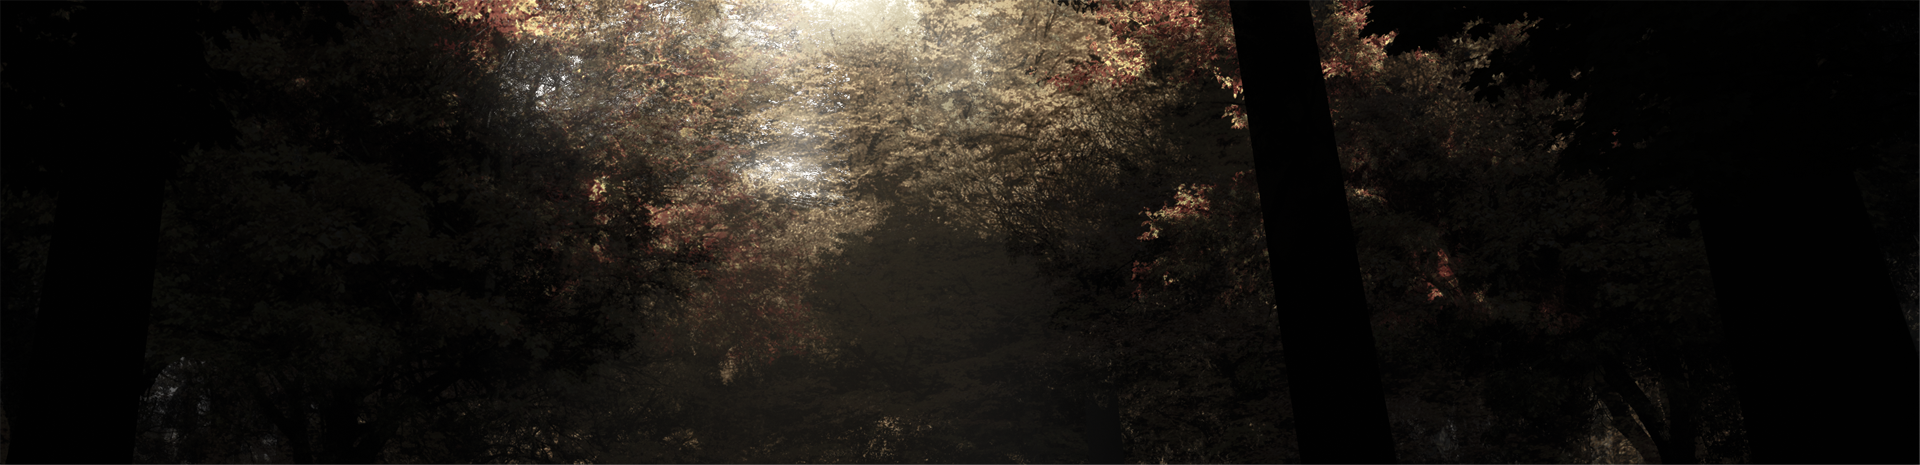
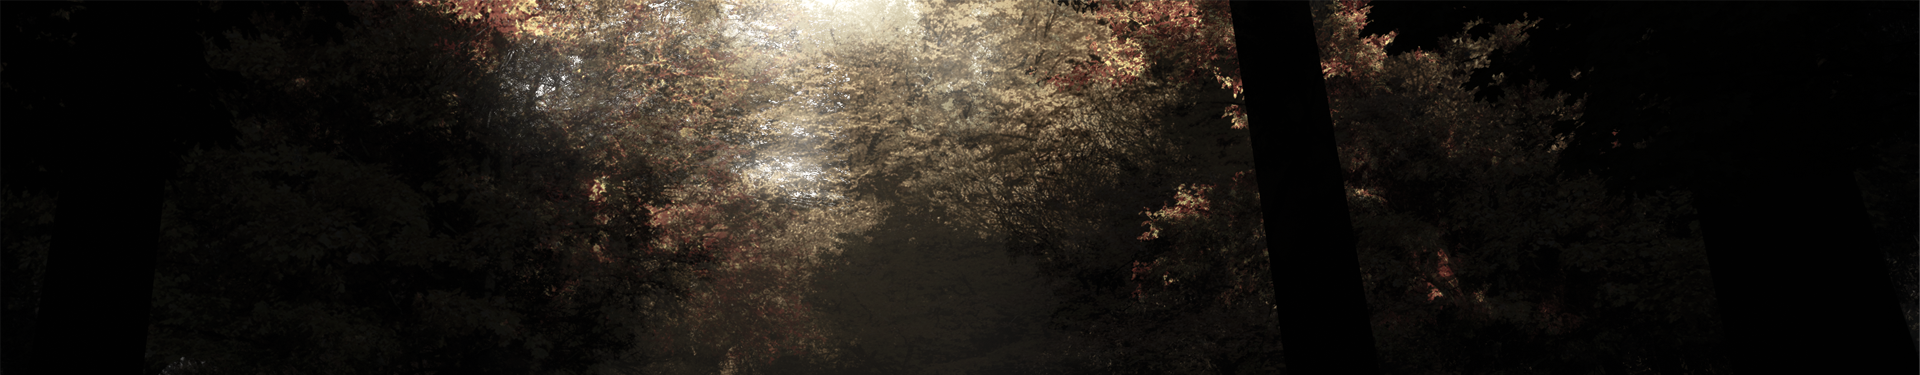
Mod : Global Bug Fixed

diff --git a/css/globalStyle.min.css b/css/globalStyle.min.css
@@ -1,1 +1,1 @@
-header{position:absolute;z-index:1;top:350px;width:100%;height:50px;line-height:50px}footer{width:100%;height:150px}.main_frame{box-sizing:border-box;width:1070px;margin:0 auto}.nav_line{width:100%;height:100%;display:flex;background-color:#afafaf;box-shadow:0px 0px 4px #6b6b6b}.nav_list{margin:0 10px;height:auto}.nav_list.left{width:120px;float:left}.nav_list.right{width:160px;float:right}.nav_item{text-align:center;color:#6b6b6b;font-size:16px;font-weight:lighter;font-family:'Trebuchet MS', 'Lucida Sans Unicode', 'Lucida Grande', 'Lucida Sans', Arial, sans-serif;box-sizing:border-box;float:left;width:100%;height:100%;padding:0 15px}.nav_item:hover{transition:all 0.4s;color:#8d8d8d;background-color:#cdcdcd}.nav_selection{display:none;float:left;width:100%;border:1px solid #bfbfbf;border-top:1px solid #cdcdcd;box-sizing:border-box;background-color:#dcdcdc;color:#6b6b6b;text-align:center;font-size:14px}.nav_selection>li{float:left;width:100%;height:45px;line-height:45px;box-sizing:border-box}.nav_selection>li:hover{transition:all 0.3s;color:#8d8d8d}.nav_selection>li:last-child{border-bottom:unset}.nav_selection>i{float:left;width:75%;height:0px;border-top:1px solid #6b6b6b;margin:0 12.5%}main>.main_frame{padding-top:50px}.topline_img{width:100%;height:350px;background-size:contain;background-position:center;background-repeat:no-repeat}.content_frame{box-sizing:border-box;width:100%;padding:20px}.content{box-sizing:border-box;margin:25px 1%;padding:20px 30px;width:98%;background-color:#e6e6e6;overflow:hidden}.content>h2{text-align:left;text-indent:0em;color:#4b4b4b;font-size:36px;font-weight:normal;font-family:Georgia, 'Times New Roman', Times, serif;margin:20px 10px 0}.content>.divider{width:98%;height:0;margin:20px 1%;margin-top:19px;border-top:1px solid #4b4b4b}.content>p{text-align:left;text-indent:1em;line-height:28px;color:#6b6b6b;font-size:16px;font-weight:normal;font-family:Georgia, 'Times New Roman', Times, serif;box-sizing:border-box;padding:5px 1%}.content a{color:#7692B4}.content a:hover{color:#A2B5CD;text-decoration:underline}.content .avator_frame{margin-top:5px;height:60px;float:right;overflow:hidden}.content .avator_frame>*{float:left}.content .avator_frame>.avator_info{text-align:center;color:#6b6b6b;font-size:16px;font-weight:lighter;font-family:'Trebuchet MS', 'Lucida Sans Unicode', 'Lucida Grande', 'Lucida Sans', Arial, sans-serif}.content .avator_frame>.avator_info>.avator_name{color:#7692B4}.content .avator_frame>.avator_info>.avator_name:hover{color:#A2B5CD;text-decoration:underline}.content .avator_frame>.avator{background-size:contain;background-position:center;background-repeat:no-repeat;box-sizing:border-box;border-radius:50%;width:60px;height:60px;border:1px solid #6b6b6b}#add_new_topic{transition:all 0.8s;position:fixed;bottom:100px;right:80px;width:60px;height:60px;border-radius:50%;background-color:#8b8b8b;font-size:42px;color:#eaeaea;line-height:60px;text-align:center;box-shadow:0px 0px 4px #6b6b6b}#add_new_topic:hover{color:#fafafa;background-color:#afafaf}.hover_frame{position:fixed;display:none;align-items:center;justify-content:center;top:0;left:0;z-index:10;width:100%;height:100%;background-color:rgba(75,75,75,0.5)}.hover_submit{width:675px;height:400px;padding:25px 40px;border-radius:10px;box-sizing:border-box;background-color:#eaeaea;font-family:Georgia, 'Times New Roman', Times, serif}.submit_title{margin-bottom:20px;width:100%;height:40px;line-height:40px;text-align:center;font-size:24px;color:#4b4b4b;font-family:'Trebuchet MS', 'Lucida Sans Unicode', 'Lucida Grande', 'Lucida Sans', Arial, sans-serif}.submit_info_frame{width:100%;height:50px;line-height:50px;font-size:18px;color:#4b4b4b;text-align:left;text-indent:1em;font-weight:300}.submit_info_frame input{box-sizing:border-box;margin:7.5px 0;margin-left:10px;width:135px;height:35px;line-height:35px;color:#6b6b6b;font-size:16px;text-indent:0.5em;border:0px solid transparent;border-bottom:2px solid #afafaf;background-color:#eaeaea}.submit_info{float:left;width:50%}.submit_content{box-sizing:border-box;width:100%;height:180px;padding:0 18px}.submit_content>h3{color:#4b4b4b;line-height:40px;font-size:18px;font-weight:400}.submit_content>textarea{width:98%;height:120px;box-sizing:border-box;margin:10px 1%;padding:5px 10px;color:#6b6b6b;font-size:16px;line-height:28px;text-indent:0.5em;border-radius:5px;border:0px solid transparent;border-top:2px solid #afafaf;border-bottom:2px solid #afafaf;background-color:#eaeaea}#submit{margin:10px 0;width:100%;height:40px;line-height:40px;text-align:center;font-size:20px;color:#6b6b6b}.input_avator{width:100%;height:138.5px;display:flex;justify-content:space-between;align-items:center}.input_avator>div{width:100px;height:100px;background-color:#afafaf}.info_frame{height:150px;padding:35px;padding-bottom:65px;box-sizing:border-box;display:flex;justify-content:space-around;align-items:center}.more_info{position:relative;z-index:1;width:180px;height:50px;box-sizing:border-box;border:1px solid #6b6b6b;background-color:transparent;transition:color 0.6s;color:#6b6b6b;font-size:20px;line-height:50px;text-align:center;font-weight:lighter;font-family:'Trebuchet MS', 'Lucida Sans Unicode', 'Lucida Grande', 'Lucida Sans', Arial, sans-serif}.more_info:hover{color:#eaeaea}.more_info::before{transition:all 0.6s;content:'';position:absolute;z-index:-1;top:-1px;left:-1px;width:0;height:50px;box-sizing:border-box;border:0px solid #6b6b6b;color:#eaeaea;font-size:20px;line-height:50px;text-align:center;font-weight:lighter;background-color:#6b6b6b}.more_info:hover::before{content:'';width:180px;border:1px solid #6b6b6b}.more_info>#text{z-index:1}.getDate{margin-top:20px;color:#6b6b6b;font-size:16px;line-height:40px;font-weight:lighter;font-family:'Trebuchet MS', 'Lucida Sans Unicode', 'Lucida Grande', 'Lucida Sans', Arial, sans-serif}
+header{position:absolute;z-index:1;top:250px;width:100%;height:50px;line-height:50px}footer{width:100%;height:150px}p{margin-block-start:0em;margin-block-end:0em}ul,ol,li{margin:0;padding:0;list-style:none}li{float:left}.main_frame{box-sizing:border-box;width:1070px;margin:0 auto}.nav_line{width:100%;height:100%;display:flex;background-color:#afafaf;box-shadow:0px 0px 4px #6b6b6b}.nav_list{margin:0 10px;height:auto}.nav_list.left{width:120px;float:left}.nav_list.right{width:160px;float:right}.nav_item{text-align:center;color:#6b6b6b;font-size:16px;font-weight:lighter;font-family:'Trebuchet MS', 'Lucida Sans Unicode', 'Lucida Grande', 'Lucida Sans', Arial, sans-serif;box-sizing:border-box;float:left;width:100%;height:100%;padding:0 15px;transition:all 0.4s}.nav_item:hover{color:#8d8d8d;background-color:#cdcdcd}.nav_selection{display:none;float:left;width:100%;border:1px solid #bfbfbf;border-top:1px solid #cdcdcd;box-sizing:border-box;background-color:#dcdcdc;color:#6b6b6b;text-align:center;font-size:14px}.nav_selection>li{float:left;width:100%;height:45px;line-height:45px;box-sizing:border-box}.nav_selection>li:hover{transition:all 0.3s;color:#8d8d8d}.nav_selection>li:last-child{border-bottom:unset}.nav_selection>i{float:left;width:75%;height:0px;border-top:1px solid #6b6b6b;margin:0 12.5%}.topline_img{width:100%;height:300px;background-size:contain;background-position:center;background-repeat:no-repeat}.content_frame{box-sizing:border-box;width:100%;padding:20px}.content{box-sizing:border-box;margin:25px 1%;padding:20px 30px;width:98%;background-color:#e6e6e6;overflow:hidden}.content>h2{text-align:left;text-indent:0em;color:#4b4b4b;font-size:36px;font-weight:normal;font-family:Georgia, 'Times New Roman', Times, serif;margin:20px 10px 0}.content>.divider{width:98%;height:0;margin:20px 1%;margin-top:19px;border-top:1px solid #4b4b4b}.content>p{text-align:left;text-indent:1em;line-height:28px;color:#6b6b6b;font-size:16px;font-weight:normal;font-family:Georgia, 'Times New Roman', Times, serif;box-sizing:border-box;padding:5px 1%}.content a{color:#7692B4}.content a:hover{color:#A2B5CD;text-decoration:underline}.content .avator_frame{margin-top:5px;height:60px;float:right;overflow:hidden}.content .avator_frame>*{float:left}.content .avator_frame>.avator_info{text-align:center;color:#6b6b6b;font-size:16px;font-weight:lighter;font-family:'Trebuchet MS', 'Lucida Sans Unicode', 'Lucida Grande', 'Lucida Sans', Arial, sans-serif}.content .avator_frame>.avator_info>.avator_name{color:#7692B4}.content .avator_frame>.avator_info>.avator_name:hover{color:#A2B5CD;text-decoration:underline}.content .avator_frame>.avator{background-size:contain;background-position:center;background-repeat:no-repeat;box-sizing:border-box;border-radius:50%;width:60px;height:60px;border:1px solid #6b6b6b}#fixed_btn{transition:all 0.8s;position:fixed;bottom:100px;right:80px;width:60px;height:60px;border-radius:50%;background-color:#8b8b8b;font-size:42px;color:#eaeaea;line-height:55px;text-align:center;box-shadow:0px 0px 4px #6b6b6b}#fixed_btn:hover{color:#fafafa;background-color:#afafaf}.hover_frame{position:fixed;display:none;align-items:center;justify-content:center;top:0;left:0;z-index:10;width:100%;height:100%;background-color:rgba(75,75,75,0.5)}.hover_submit{width:675px;height:400px;padding:25px 40px;border-radius:10px;box-sizing:border-box;background-color:#eaeaea;font-family:Georgia, 'Times New Roman', Times, serif}.submit_title{margin-bottom:20px;width:100%;height:40px;line-height:40px;text-align:center;font-size:24px;color:#4b4b4b;font-family:'Trebuchet MS', 'Lucida Sans Unicode', 'Lucida Grande', 'Lucida Sans', Arial, sans-serif}.submit_info_frame{width:100%;height:50px;line-height:50px;font-size:18px;color:#4b4b4b;text-align:left;text-indent:1em;font-weight:300}.submit_info_frame input{box-sizing:border-box;margin:7.5px 0;margin-left:10px;width:135px;height:35px;line-height:35px;color:#6b6b6b;font-size:16px;text-indent:0.5em;border:0px solid transparent;border-bottom:2px solid #afafaf;background-color:#eaeaea}.submit_info{float:left;width:50%}.submit_content{box-sizing:border-box;width:100%;height:180px;padding:0 18px}.submit_content>h3{color:#4b4b4b;line-height:40px;font-size:18px;font-weight:400}.submit_content>textarea{width:98%;height:120px;box-sizing:border-box;margin:10px 1%;padding:5px 10px;color:#6b6b6b;font-size:16px;line-height:28px;text-indent:0.5em;border-radius:5px;border:0px solid transparent;border-top:2px solid #afafaf;border-bottom:2px solid #afafaf;background-color:#eaeaea}#submit{margin:10px 0;width:100%;height:40px;line-height:40px;text-align:center;font-size:20px;color:#6b6b6b}.input_avator{width:100%;height:138.5px;display:flex;justify-content:space-between;align-items:center}.input_avator>div{width:100px;height:100px;background-color:#afafaf}.info_frame{height:150px;padding:35px;padding-bottom:65px;box-sizing:border-box;display:flex;justify-content:space-around;align-items:center}.more_info{position:relative;z-index:1;width:180px;height:50px;box-sizing:border-box;border:1px solid #6b6b6b;background-color:transparent;transition:color 0.6s;color:#6b6b6b;font-size:20px;line-height:50px;text-align:center;font-weight:lighter;font-family:'Trebuchet MS', 'Lucida Sans Unicode', 'Lucida Grande', 'Lucida Sans', Arial, sans-serif}.more_info:hover{color:#eaeaea}.more_info::before{transition:all 0.6s;content:'';position:absolute;z-index:-1;top:-1px;left:-1px;width:0;height:50px;box-sizing:border-box;border:0px solid #6b6b6b;color:#eaeaea;font-size:20px;line-height:50px;text-align:center;font-weight:lighter;background-color:#6b6b6b}.more_info:hover::before{content:'';width:180px;border:1px solid #6b6b6b}.more_info>#text{z-index:1}.getDate{margin-top:20px;color:#6b6b6b;font-size:16px;line-height:40px;font-weight:lighter;font-family:'Trebuchet MS', 'Lucida Sans Unicode', 'Lucida Grande', 'Lucida Sans', Arial, sans-serif}

diff --git a/css/globalStyle.scss b/css/globalStyle.scss
@@ -69,7 +69,7 @@ $lightYellow:       #D4CCC0;
 header {
     position: absolute;
     z-index: 1;
-    top: 350px;
+    top: 250px;
     width: 100%;
     height: 50px;
     line-height: 50px;
@@ -79,6 +79,21 @@ footer {
     // z-index: 1;
     width: 100%;
     height: 150px;
+}
+
+p {
+    margin-block-start: 0em;
+    margin-block-end: 0em;
+}
+
+ul,ol,li {
+    margin: 0;
+    padding: 0;
+    list-style: none;
+}
+
+li {
+    float: left;
 }
 
 // --- nav
@@ -120,10 +135,11 @@ footer {
     padding: 0 15px;
 
     &:hover {
-        transition: all 0.4s;
         color: $darkGray;
         background-color: $lightGray;
     }
+
+    transition: all 0.4s;
 }
 
 .nav_selection {
@@ -167,15 +183,9 @@ footer {
 
 // --- main
 
-main {
-    &> .main_frame {
-        padding-top: 50px;
-    }
-}
-
 .topline_img {
     width: 100%;
-    height: 350px;
+    height: 300px;
 
     background-size: contain;
     background-position: center;
@@ -258,7 +268,7 @@ main {
 
 // ---
 
-#add_new_topic {
+#fixed_btn {
     transition: all 0.8s;
     position: fixed;
     bottom: 100px;
@@ -270,12 +280,12 @@ main {
 
     font-size: 42px;
     color: #eaeaea;
-    line-height: 60px;
+    line-height: 55px;
     text-align: center;
     box-shadow: 0px 0px 4px #6b6b6b;
 }
 
-#add_new_topic:hover {
+#fixed_btn:hover {
     color: #fafafa;
     background-color: #afafaf;
 }

diff --git a/css/globalStyle.css b/css/globalStyle.css
@@ -1,7 +1,7 @@
 header {
   position: absolute;
   z-index: 1;
-  top: 350px;
+  top: 250px;
   width: 100%;
   height: 50px;
   line-height: 50px;
@@ -10,6 +10,21 @@ header {
 footer {
   width: 100%;
   height: 150px;
+}
+
+p {
+  margin-block-start: 0em;
+  margin-block-end: 0em;
+}
+
+ul, ol, li {
+  margin: 0;
+  padding: 0;
+  list-style: none;
+}
+
+li {
+  float: left;
 }
 
 .main_frame {
@@ -52,10 +67,10 @@ footer {
   width: 100%;
   height: 100%;
   padding: 0 15px;
+  transition: all 0.4s;
 }
 
 .nav_item:hover {
-  transition: all 0.4s;
   color: #8d8d8d;
   background-color: #cdcdcd;
 }
@@ -98,13 +113,9 @@ footer {
   margin: 0 12.5%;
 }
 
-main > .main_frame {
-  padding-top: 50px;
-}
-
 .topline_img {
   width: 100%;
-  height: 350px;
+  height: 300px;
   background-size: contain;
   background-position: center;
   background-repeat: no-repeat;
@@ -203,7 +214,7 @@ main > .main_frame {
   border: 1px solid #6b6b6b;
 }
 
-#add_new_topic {
+#fixed_btn {
   transition: all 0.8s;
   position: fixed;
   bottom: 100px;
@@ -214,12 +225,12 @@ main > .main_frame {
   background-color: #8b8b8b;
   font-size: 42px;
   color: #eaeaea;
-  line-height: 60px;
+  line-height: 55px;
   text-align: center;
   box-shadow: 0px 0px 4px #6b6b6b;
 }
 
-#add_new_topic:hover {
+#fixed_btn:hover {
   color: #fafafa;
   background-color: #afafaf;
 }

diff --git a/js/present/fadein_item.js b/js/present/fadein_item.js
@@ -1,0 +1,21 @@
+$(() => {
+
+    let elementCount = 0;
+    let elementHeight = $('.list_frame').children('div').height();
+
+    $(window).on('scroll', () => {
+
+        if ($('.list_frame').children('div').eq(elementCount).length == 0) {
+            return;
+        }
+
+        while (Math.floor($('.list_frame').children('div').eq(elementCount).offset().top - $(document).scrollTop() - $(window).height() + elementHeight / 3) < 0) {
+            elementCount += 3;
+            elementCount >= $('.list_frame>div').length ? elementCount = $('.list_frame>div').length : null;
+            $('.list_frame').children(`div:lt(${elementCount})`).children('.img_effect').animate({ 'opacity': 1 }, 'fast');
+            if ($('.list_frame').children('div').length == elementCount) { break; }
+        }
+
+    });
+
+});

diff --git a/js/present/add_topic.js b/js/present/add_topic.js
@@ -31,7 +31,7 @@ $(() => {
 
     // ---
 
-    $('#add_new_topic').on('click', () => {
+    $('#fixed_btn').on('click', () => {
         $('.hover_frame').css({ display: 'flex' });
     });
 
@@ -53,6 +53,9 @@ $(() => {
     $('#submit').on('click', () => {
         if ($('#mainTitle').val().trim() != '' && $('#subTitle').val().trim() != '') {
             createElement();
+            if (Math.floor($('.list_frame>div:last-child').offset().top - $(document).scrollTop() - $(window).height() + $('.list_frame').children('div').height() / 3) < 0) {
+                $('.list_frame>div:last-child').children('.img_effect').animate({ 'opacity': 1 }, 'fast');
+            }
 
             $('#submit').html('Click Anywhere else to Exit');
             $('.hover_frame').hide();

diff --git a/present.html b/present.html
@@ -7,13 +7,14 @@
     <title>Blurry Lights - Present</title>
     <link rel="shortcut icon" href="./BlurryLights.ico">
 
-    <link rel="stylesheet" href="./lib/reset.css">
+    <link rel="stylesheet" href="./lib/normalize.css">
     <link rel="stylesheet" href="./css/globalStyle.css">
     <link rel="stylesheet" href="./css/present.css">
 
     <script src="./lib/jquery-3.5.0.min.js"></script>
     <script src="./js/nav_line.js"></script>
     <script src="./js/present/add_topic.js"></script>
+    <script src="./js/present/fadein_item.js"></script>
 </head>
 
 <body>
@@ -155,7 +156,7 @@
         </div>
     </footer>
 
-    <div id="add_new_topic">+</div>
+    <div id="fixed_btn">+</div>
 
     <div class="hover_frame">
         <div class="hover_submit">

diff --git a/cube.html b/cube.html
@@ -7,7 +7,7 @@
     <title>Blurry Lights - Cube</title>
     <link rel="shortcut icon" href="./BlurryLights.ico">
 
-    <link rel="stylesheet" href="./lib/reset.css">
+    <link rel="stylesheet" href="./lib/normalize.css">
     <link rel="stylesheet" href="./css/globalStyle.css">
     <link rel="stylesheet" href="./css/cube.css">
 
@@ -15,6 +15,7 @@
     <script src="./js/nav_line.js"></script>
     <script src="./js/cube/cube_form.js"></script>
     <script src="./js/cube/slide_form.js"></script>
+    <script src="./js/cube/back_to_top.js"></script>
 </head>
 
 <body>
@@ -173,6 +174,8 @@
             <!-- // -->
         </div>
     </main>
+
+    <div id="fixed_btn">-</div>
 
     <footer>
         <div class="main_frame">

diff --git a/js/cube/slide_form.js b/js/cube/slide_form.js
@@ -55,7 +55,7 @@ $(() => {
 
     $('#outer_opacity, #inner_opacity').on('blur', function () {
         isNaN($(this).val()) ? $(this).val(0) : null;
-        let value = $(this).val() * $('.prop_scroll_box').outerWidth();
+        let value = $(this).val() * ($('.prop_scroll_box').outerWidth() - $('.scroll_btn').outerWidth() / 2);
         value <= $('.scroll_btn').outerWidth() / 2 ? value = $('.scroll_btn').outerWidth() / 2 : null;
         value >= $('.prop_scroll_box').width() - $('.scroll_btn').outerWidth() / 2 ? value = $('.prop_scroll_box').width() - $('.scroll_btn').outerWidth() / 2 : null;
         $(this).val() < 0 ? $(this).val(0) : null;

diff --git a/css/present.css b/css/present.css
@@ -113,13 +113,17 @@
     margin-bottom: 80px;
 }
 
+.list_frame .img_effect{
+    opacity: 0;
+}
+
 .item_info {
     float: left;
     box-sizing: border-box;
     width: 285px;
     height: 165px;
-    padding-top: 30px;
     text-align: center;
+    overflow: hidden;
 }
 
 .item_info>h3 {
@@ -132,7 +136,6 @@
 
 .item_info>span {
     position: relative;
-    /* display: block; */
     font-size: 20px;
     font-weight: lighter;
     font-family: 'Gill Sans', 'Gill Sans MT', Calibri, 'Trebuchet MS', sans-serif;

diff --git a/halo.html b/halo.html
@@ -7,7 +7,7 @@
     <title>Blurry Lights - Halo</title>
     <link rel="shortcut icon" href="./BlurryLights.ico">
 
-    <link rel="stylesheet" href="./lib/reset.css">
+    <link rel="stylesheet" href="./lib/normalize.css">
     <link rel="stylesheet" href="./css/globalStyle.css">
     <link rel="stylesheet" href="./css/halo.css">
 
@@ -131,7 +131,7 @@
         </div>
     </div>
 
-    <div id="add_new_topic">+</div>
+    <div id="fixed_btn">+</div>
 
 </body>
 

diff --git a/js/cube/back_to_top.js b/js/cube/back_to_top.js
@@ -1,0 +1,18 @@
+$(() => {
+    $('#fixed_btn').hide();
+
+    $(window).on('scroll', () => {
+        if ($(window).scrollTop() > 700) {
+            $('#fixed_btn').show(600);
+        }
+
+        else {
+            $('#fixed_btn').hide(600);
+        }
+    })
+
+    $('#fixed_btn').on('click', function () {
+        $(window).scrollTop(0);
+        $(this).hide();
+    })
+})

diff --git a/index.html b/index.html
@@ -7,7 +7,7 @@
     <title>Blurry Lights - Main Page</title>
     <link rel="shortcut icon" href="./BlurryLights.ico">
 
-    <link rel="stylesheet" href="./lib/reset.css">
+    <link rel="stylesheet" href="./lib/normalize.css">
     <link rel="stylesheet" href="./css/globalStyle.css">
     <link rel="stylesheet" href="./css/index.css">
 
